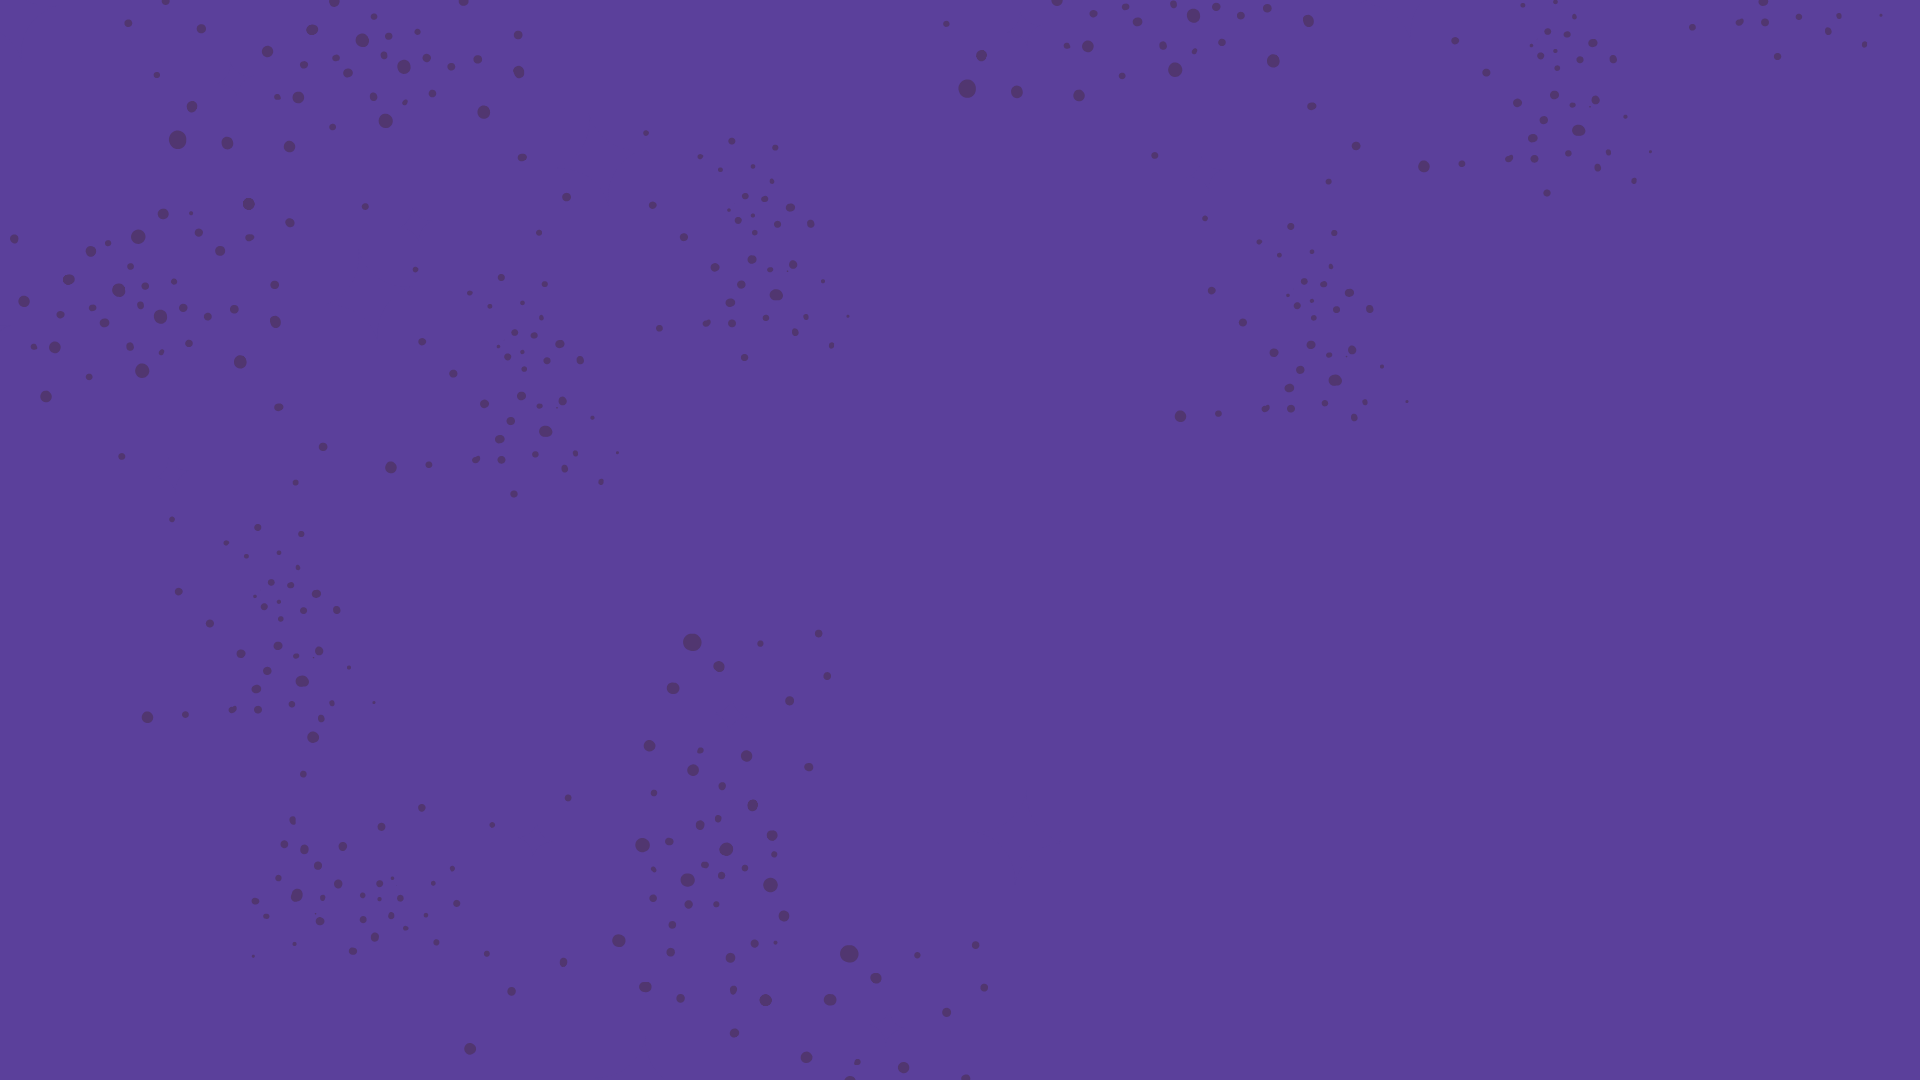
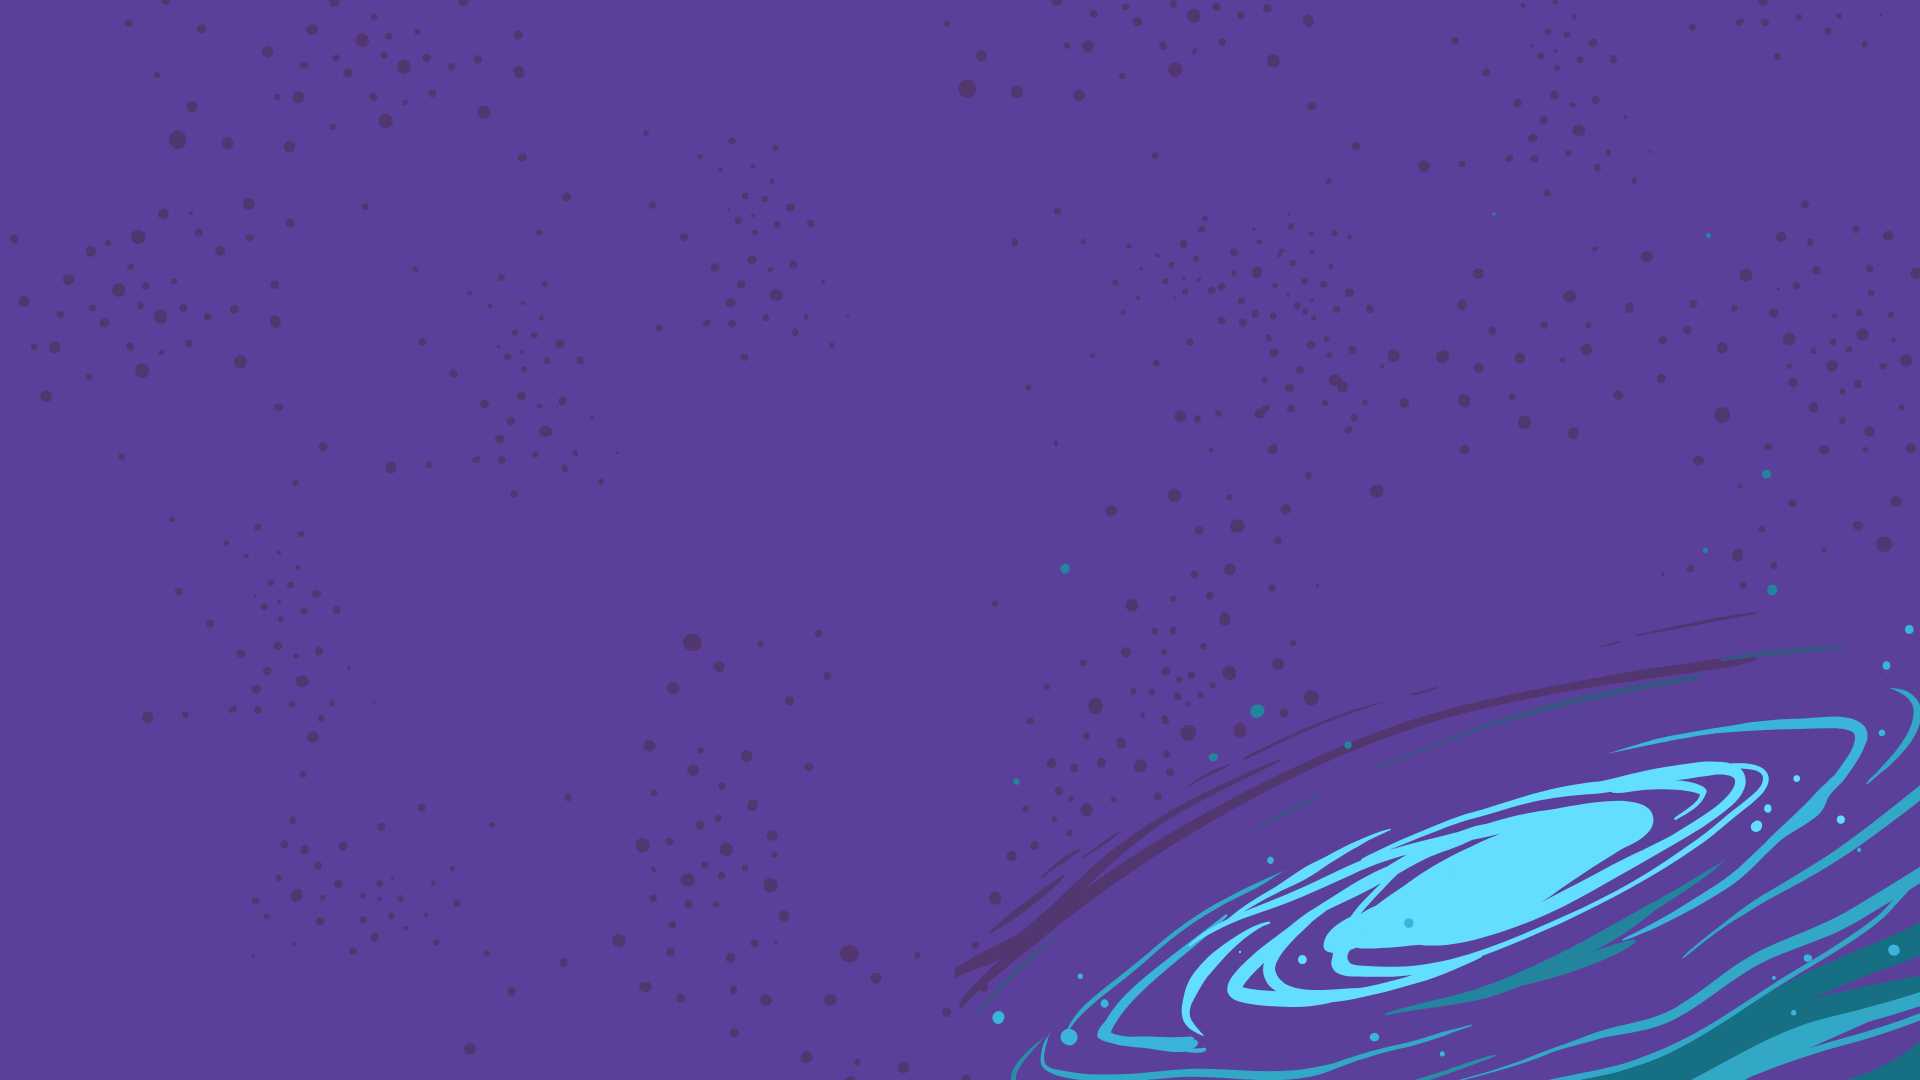
About-home Section development

diff --git a/components/About.vue b/components/About.vue
@@ -1,0 +1,147 @@
+<template>
+<div class="main-container">
+    <div class="star">
+        <div class="content-container">
+        <div class="content-holder">
+            <h1>Thinking Bigger Than Ever Before, Today.</h1>
+                <p>Sometimes looking for great talent can feel out of this world. But we connect businesses just like yours to some of the greatest creatives in the world. Whether you are looking for someone part-time or full time we’ve got the creatives your business deserves. </p>
+
+        </div>
+    </div>
+
+    </div>
+    <div 
+    v-rellax="{
+                        // Rellax Options
+                        // See: https://github.com/dixonandmoe/rellax#features
+                        speed: 3
+                  }"
+    
+    class="extra-stars"></div>
+    <div 
+    v-rellax="{
+                        // Rellax Options
+                        // See: https://github.com/dixonandmoe/rellax#features
+                        speed: -3
+                  }"
+    
+    class="extra-stars2"></div>
+    
+        <div
+        
+       
+              v-rellax="{
+                        // Rellax Options
+                        // See: https://github.com/dixonandmoe/rellax#features
+                        speed: -5
+                  }"
+         class="left-star"></div>
+
+         <div 
+          v-rellax="{
+                        // Rellax Options
+                        // See: https://github.com/dixonandmoe/rellax#features
+                        speed: 5
+                  }"
+         class="right-star"></div>
+</div>
+      
+</template>
+
+
+<script>   
+
+</script>
+
+
+<style scoped>
+.extra-stars {
+
+     background-image: url(../assets/img/stars.png);
+    width: 100%;
+    height: 120%;
+    position: absolute;
+    top: -130px;
+    z-index: 50;
+    background-size: cover;
+}
+.extra-stars2 {
+
+     background-image: url(../assets/img/stars.png);
+    width: 100%;
+    height: 120%;
+    position: absolute;
+    top: -70px;
+    z-index: 50;
+    left: 120px;
+    background-size: cover;
+}
+
+.main-container {
+    background-color: #141830;
+    height: 100vh;
+    position: relative;
+    z-index: 10;
+    overflow: hidden;
+ 
+}
+
+.left-star {
+    background-image: url(../assets/img/red-star.png);
+    width: 40%;
+    height: 120%;
+    position: absolute;
+    top: -400px;
+    z-index: -5;
+    background-repeat: no-repeat;
+}
+.right-star {
+    background-image: url(../assets/img/blue-star.png);
+    width: 40%;
+    height: 120%;
+    position: absolute;
+    top: 350px;
+    right: -50px;
+    z-index: -5;
+    background-repeat: no-repeat;
+}
+
+
+.star {
+    background-image: url(../assets/img/stars.png);
+    width: 100%;
+    height: 100vh;
+          display: flex;
+    -webkit-box-align: center;
+    align-items: center;
+    background-size: cover;
+ 
+}
+
+.content-container {
+    max-width: 680px;
+    margin: 0 auto;
+    text-align: center;
+    
+}
+
+.content-holder {
+    padding: 40px;
+}
+
+h1 {
+    
+    font-size: 2.5em;
+    color: #fff;
+    font-family: 'Nunito', sans-serif;
+    font-weight: 700;
+    margin-bottom: 20px;
+}
+
+p {
+      font-size: 1em;
+      font-family: 'Nunito', sans-serif;
+      font-weight: 300;
+      color: #fff;
+}
+</style>

diff --git a/components/Hero.vue b/components/Hero.vue
@@ -5,7 +5,7 @@
       v-rellax="{
                         // Rellax Options
                         // See: https://github.com/dixonandmoe/rellax#features
-                        speed: -3
+                        speed: 2
                   }"
       
       
@@ -16,7 +16,7 @@
             v-rellax="{
                         // Rellax Options
                         // See: https://github.com/dixonandmoe/rellax#features
-                        speed: -5
+                        speed: -2
                   }"
             class="hero-content">
 
@@ -62,7 +62,7 @@
       background-repeat: no-repeat;
       height: 610px;
       position: absolute;
-      z-index: 999;
+      z-index: 5;
       width: 40%;
       right: 0;
       bottom: 10%;
@@ -91,6 +91,7 @@
 }
 
 .main-container {
+      overflow: hidden;
 }
 
 .scrolldown {

diff --git a/pages/index.vue b/pages/index.vue
@@ -1,16 +1,20 @@
 <template>
   <div>
     <hero />
+    <about />
+    
   <div><br><br><br><br><br><br><br><br><br><br><br><br><br><br><br><br><br><br><br><br><br><br><br><br><br><br><br><br><br><br><br><br><br><br><br><br><br><br><br><br><br><br><br><br><br><br><br><br><br><br><br><br><br><br><br><br><br><br><br><br><br><br><br><br><br><br><br><br><br><br><br><br><br><br><br><br><br><br><br><br><br><br><br><br><br><br><br><br><br><br><br><br><br></div>
   </div>
 </template>
 
 <script>
 import Hero from "~/components/Hero.vue";
+import About from "~/components/About.vue";
 
 export default {
   components: {
-    Hero
+    Hero,
+    About
   }
 }
 </script>
